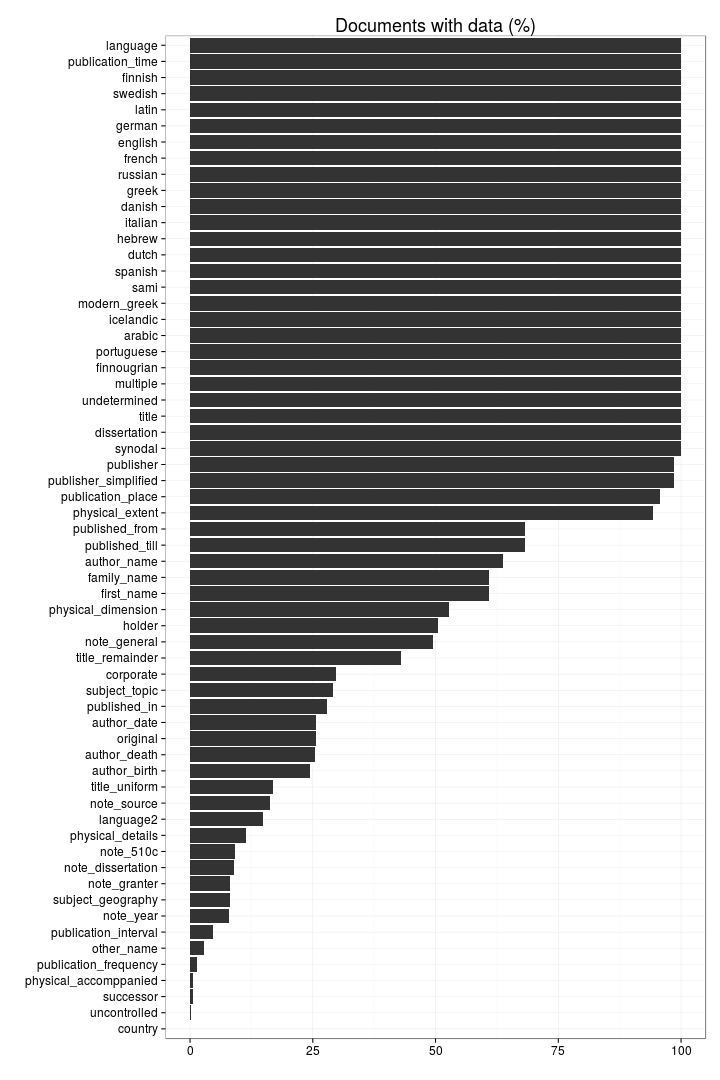
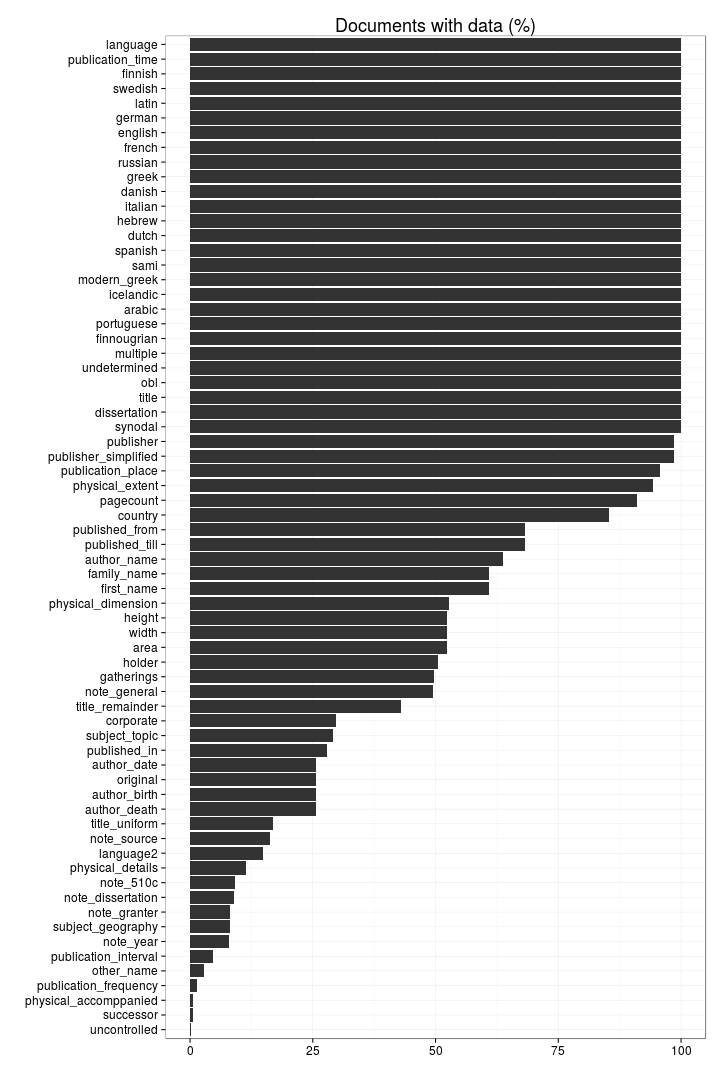
fixed some fields

Changed region(s): [[0.275, 0.0611, 0.9472, 0.4889], [0.0306, 0.0306, 0.6722, 0.9778]]

diff --git a/inst/examples/summary.md b/inst/examples/summary.md
@@ -16,13 +16,7 @@ Fraction of documents with entries for each annotation field.
 ## Error in if (inherits(X[[j]], "data.frame") && ncol(xj) > 1L) X[[j]] <- as.matrix(X[[j]]): missing value where TRUE/FALSE needed
 ```
 
-```
-## Error in order(df2$missing): argument 1 is not a vector
-```
-
-```
-## Error in 100 - missing: non-numeric argument to binary operator
-```
+![plot of chunk missing](figure/missing-1.png) 
 
 ## Topics
 

diff --git a/inst/examples/Helsinki.md b/inst/examples/Helsinki.md
@@ -51,5 +51,9 @@ output: markdown_document
 ```
 
 ```
+## Warning in remove(tmp1, tmp2, final): object 'tmp2' not found
+```
+
+```
 ## Warning in remove(tmp1, tmp2, final): object 'final' not found
 ```
